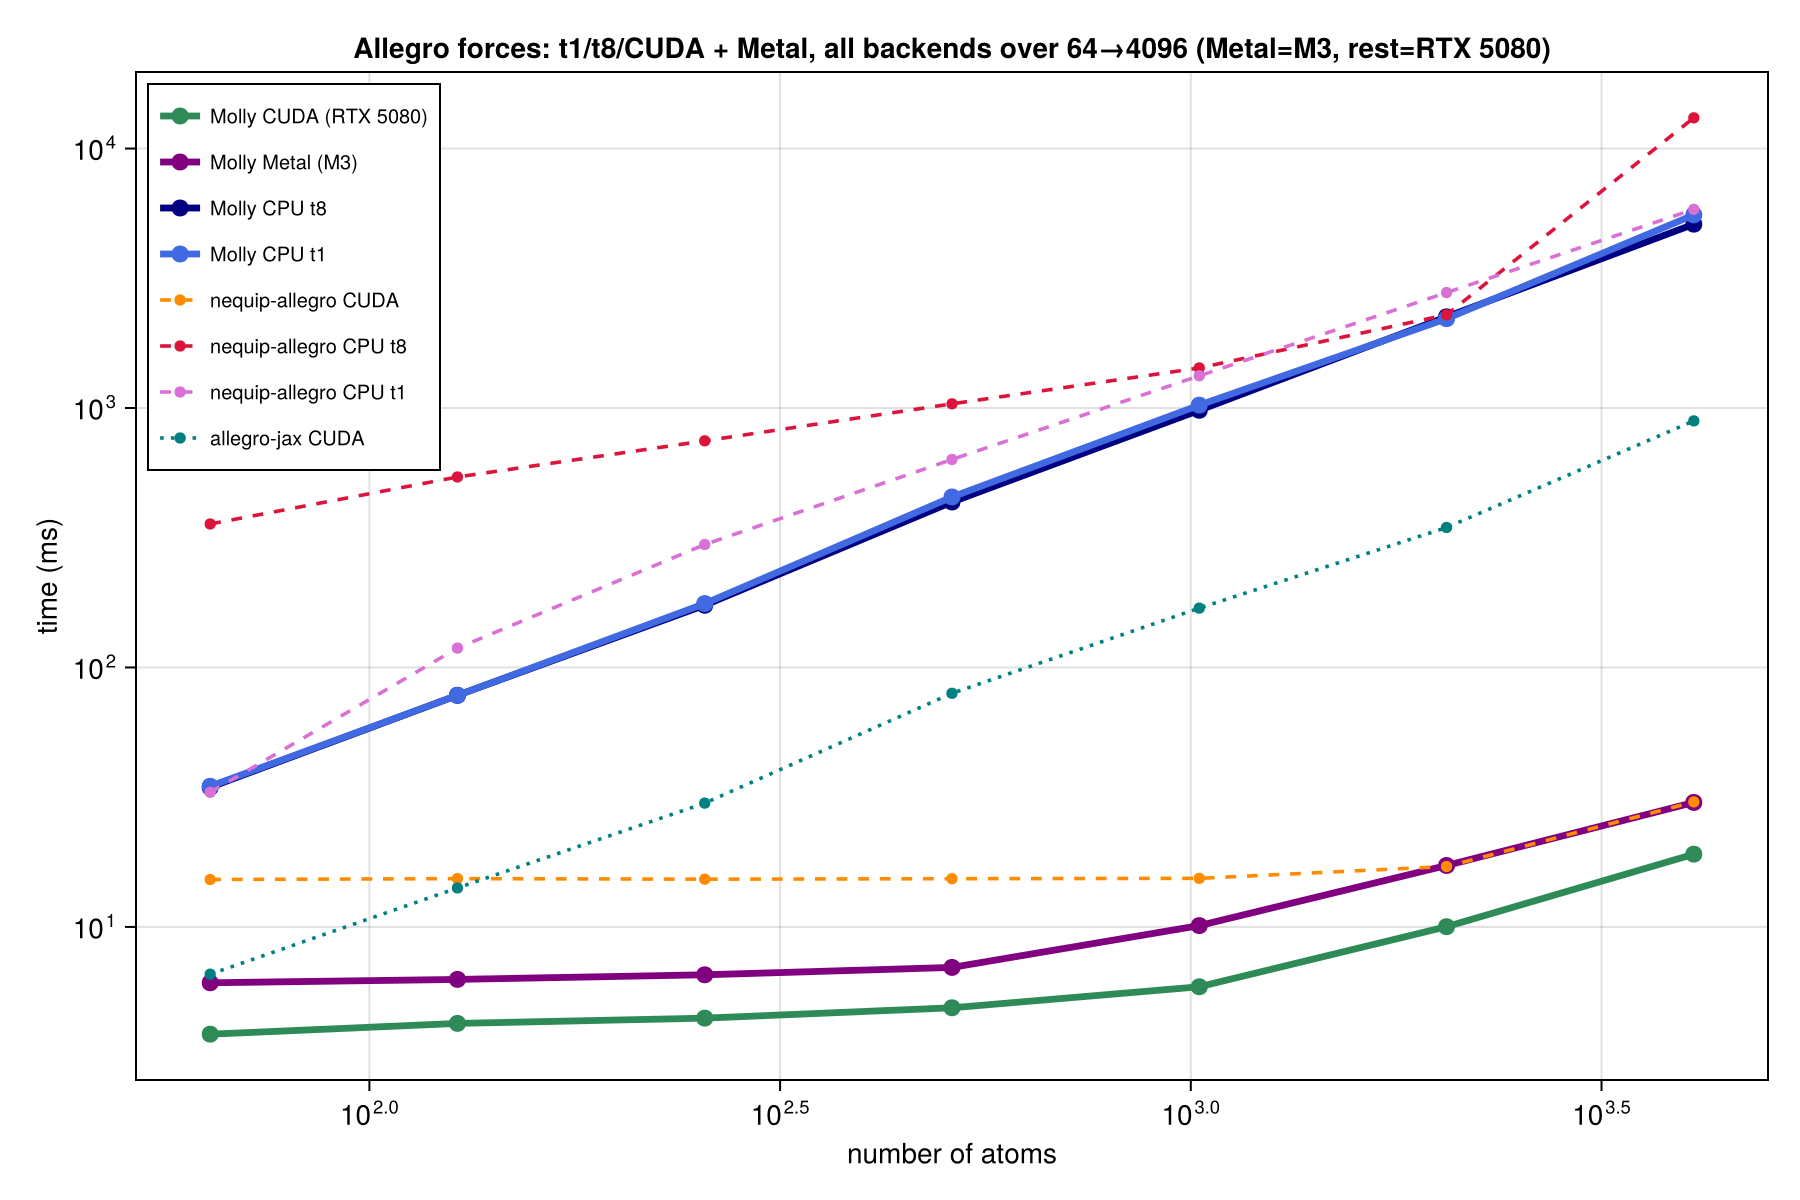
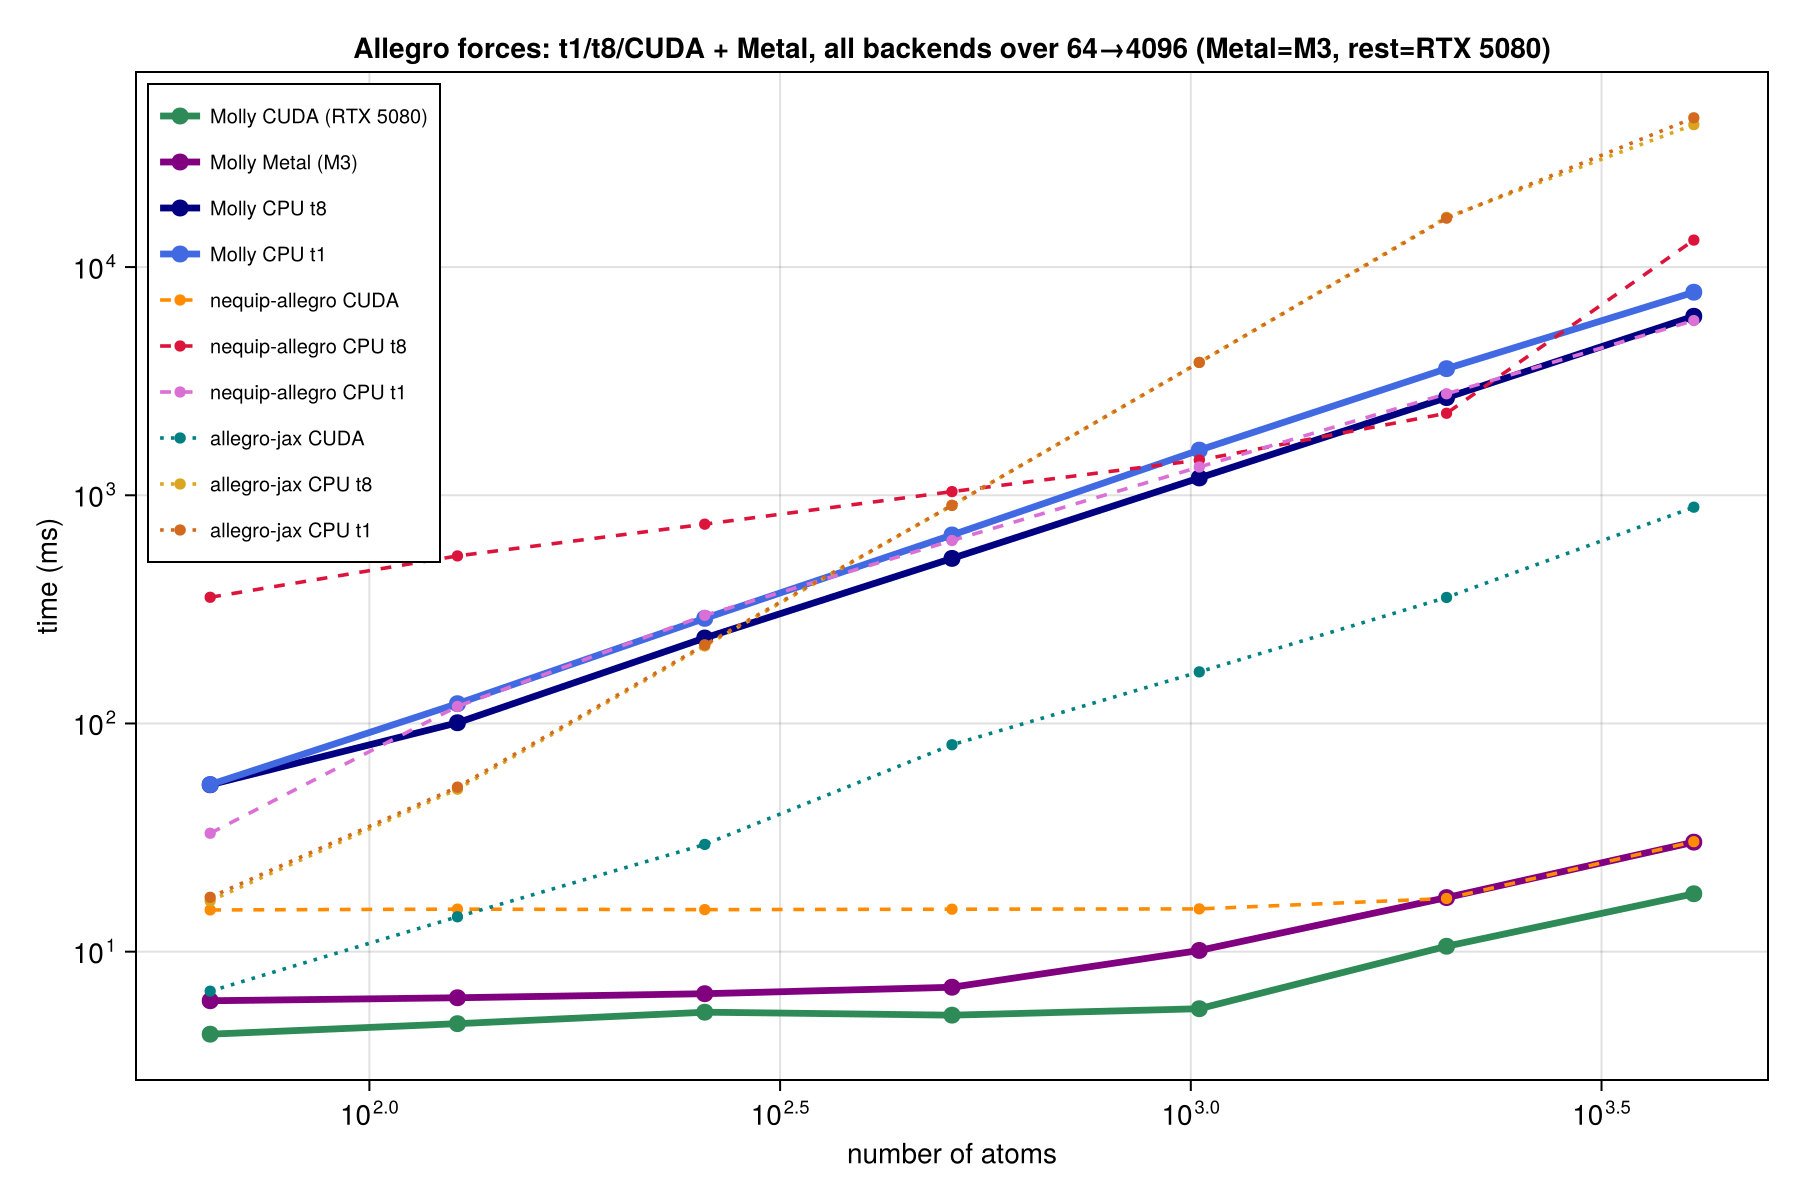
Allegro benchmarks: jax t1/t8 at 7 points on both figures; threaded CPU forces
- allegro-jax CPU energy AND forces now run out to 4096 atoms (adaptive timing in
  allegro_jax_bench.py so the dense O(N^2) tail stays tractable), drawn as separate
  t1 and t8 lines on both the energy and forces figures. They coincide because
  allegro-jax's XLA CPU path is thread-insensitive (t1 == t8 to <1% at every size).
- Forces figure now mirrors the energy one: Molly CUDA/Metal/CPU-t1/t8, nequip
  CUDA/CPU-t1/t8, allegro-jax CUDA/CPU-t1/t8 — every line over the full 7 sizes.
- Molly CPU forces are a fair back-to-back t1/t8 pair: the threaded backward puts t8
  ~1.3x below t1 on the 12-core box (allocation-bound, so modest). Report tables and
  prose updated; jax CPU columns added.

diff --git a/benchmark/allegro_jax_bench.py b/benchmark/allegro_jax_bench.py
@@ -93,15 +93,22 @@ def edge_index(pos):
     return i, j
 
 
-def timeit(f, reps=5, samples=8):
+def timeit(f, max_reps=40, min_reps=3, budget=4.0):
+    """Best single-call time in ms. Adaptive: keep timing individual calls until either `max_reps`
+    are done or (`min_reps` are done and the total exceeds `budget` seconds). Cheap ops (a few ms
+    here, well above timer noise) get many samples; the dense O(N²) large-N cases, where one call
+    already dominates, stop after `min_reps`. Always the minimum, so a truncated run is a valid,
+    slightly conservative timing measured identically across every size and device."""
     f().block_until_ready()
     best = np.inf
-    for _ in range(reps):
+    t_start = time.perf_counter()
+    for r in range(max_reps):
         t0 = time.perf_counter()
-        for _ in range(samples):
-            out = f()
+        out = f()
         out.block_until_ready()
-        best = min(best, (time.perf_counter() - t0) / samples)
+        best = min(best, time.perf_counter() - t0)
+        if r + 1 >= min_reps and time.perf_counter() - t_start > budget:
+            break
     return best * 1e3  # ms
 
 

diff --git a/benchmark/allegro_benchmarks.md b/benchmark/allegro_benchmarks.md
@@ -146,17 +146,18 @@ host** while Metal is the **Apple M3** (cross-machine). Reproduce with `benchmar
 `benchmark/allegro.jl` (Molly), on the same machine.
 
 **Energy, time in ms.** CPU (t1/t8) and CUDA are the RTX 5080 host; Molly Metal is the Apple M3.
-Every backend is shown over the full range it can reach: Metal is Molly-only (see below), and
-`allegro-jax`'s dense O(N²) CPU path becomes impractical past ~512 atoms.
+Metal is Molly-only (see below). `allegro-jax`'s CPU column is one value because it is
+thread-insensitive (t1 ≈ t8); being dense O(N²) it reaches 4096 atoms only via adaptive timing and is
+impractical there (~42 s). The figures draw its t1 and t8 as separate lines, which coincide.
 
 | atoms | Molly CUDA | Molly Metal | Molly t8 | Molly t1 | nequip CUDA | nequip t8 | nequip t1 | jax CUDA | jax CPU |
 | :---: | :---: | :---: | :---: | :---: | :---: | :---: | :---: | :---: | :---: |
-| 64   | 1.33 | 1.86  | 3.4   | 11.4   | 5.65  | 162  | 13.5   | 6.7   | 13.8  |
-| 256  | 1.47 | 2.08  | 16.9  | 55.7   | 5.59  | 310  | 114.1  | 30.2  | 228.2 |
-| 512  | 1.64 | 2.76  | 35.7  | 123.0  | 5.68  | 400  | 242.8  | 80.4  | 972.2 |
-| 1024 | 2.13 | 3.77  | 106.3 | 308.3  | 5.70  | 573  | 585.9  | 167.5 | —     |
-| 2048 | 3.62 | 6.60  | 206.1 | 653.8  | 7.85  | 747  | 1203.7 | 344.8 | —     |
-| 4096 | 7.32 | 12.83 | 457.0 | 1511.2 | 13.42 | 1899 | 2600.5 | 877.0 | —     |
+| 64   | 1.33 | 1.86  | 3.4   | 11.4   | 5.65  | 162  | 13.5   | 6.7   | 13     |
+| 256  | 1.47 | 2.08  | 16.9  | 55.7   | 5.59  | 310  | 114.1  | 30.2  | 195    |
+| 512  | 1.64 | 2.76  | 35.7  | 123.0  | 5.68  | 400  | 242.8  | 80.4  | 859    |
+| 1024 | 2.13 | 3.77  | 106.3 | 308.3  | 5.70  | 573  | 585.9  | 167.5 | 3779   |
+| 2048 | 3.62 | 6.60  | 206.1 | 653.8  | 7.85  | 747  | 1203.7 | 344.8 | 16302  |
+| 4096 | 7.32 | 12.83 | 457.0 | 1511.2 | 13.42 | 1899 | 2600.5 | 877.0 | 42455  |
 
 (`torch.compile` brings nequip CUDA to ~2.5–5 ms — still slower than Molly; omitted for clarity.
 `allegro-jax` uses dense all-pairs, so it scales O(N²) and is far slower at scale.)
@@ -164,17 +165,19 @@ Every backend is shown over the full range it can reach: Metal is Molly-only (se
 ![Allegro energy: all implementations](images/allegro_benchmark_energy.png)
 
 **Forces, time in ms** (Molly analytic vs nequip/jax autograd). CPU (t1/t8) and CUDA are the RTX 5080
-host; Molly Metal is the Apple M3. Every line spans all seven sizes; `allegro-jax`'s dense CPU forces
-cannot, so only its CUDA column appears.
+host; Molly Metal is the Apple M3. Every line spans all seven sizes (the dense `allegro-jax` CPU run
+is timed adaptively so it reaches 4096; its t1 ≈ t8, one column). Molly's CPU t1/t8 here are a fair
+back-to-back pair; the box is shared, so read the CPU absolutes as ±~30% but the t8/t1 and
+cross-implementation *ratios* as robust.
 
-| atoms | Molly CUDA | Molly Metal | Molly t8 | Molly t1 | nequip CUDA | nequip t8 | nequip t1 | jax CUDA |
-| :---: | :---: | :---: | :---: | :---: | :---: | :---: | :---: | :---: |
-| 64   | 3.9  | 6.1  | 34.5   | 34.9   | 15.2 | 357   | 33.0   | 6.6   |
-| 256  | 4.5  | 6.5  | 173.7  | 176.3  | 15.3 | 747   | 297.7  | 30.0  |
-| 512  | 4.9  | 7.0  | 434.3  | 454.1  | 15.3 | 1038  | 633.3  | 79.5  |
-| 1024 | 5.9  | 10.1 | 980.0  | 1025.5 | 15.4 | 1426  | 1330.7 | 169.3 |
-| 2048 | 10.0 | 17.3 | 2246.0 | 2209.5 | 17.1 | 2287  | 2785.1 | 346.3 |
-| 4096 | 19.1 | 30.2 | 5110.3 | 5548.7 | 30.3 | 13131 | 5828.9 | 891.9 |
+| atoms | Molly CUDA | Molly Metal | Molly t8 | Molly t1 | nequip CUDA | nequip t8 | nequip t1 | jax CUDA | jax CPU |
+| :---: | :---: | :---: | :---: | :---: | :---: | :---: | :---: | :---: | :---: |
+| 64   | 4.3  | 6.1  | 53.9   | 54.0   | 15.2 | 357   | 33.0   | 6.6   | 17     |
+| 256  | 5.4  | 6.5  | 236.9  | 288.7  | 15.3 | 747   | 297.7  | 30.0  | 219    |
+| 512  | 5.3  | 7.0  | 528.9  | 669.9  | 15.3 | 1038  | 633.3  | 79.5  | 903    |
+| 1024 | 5.6  | 10.1 | 1191.1 | 1577.4 | 15.4 | 1426  | 1330.7 | 169.3 | 3822   |
+| 2048 | 10.6 | 17.3 | 2679.6 | 3588.2 | 17.1 | 2287  | 2785.1 | 346.3 | 16514  |
+| 4096 | 17.9 | 30.2 | 6087.9 | 7760.0 | 30.3 | 13131 | 5828.9 | 891.9 | 42094  |
 
 Molly CUDA forces match the CPU analytic forces to machine precision (max |ΔF| ≈ 2e-14, Float64);
 Metal forces to ≈ 1e-5 (Float32). The CUDA backward is the fastest forces path here at every size.
@@ -199,13 +202,15 @@ Reading it:
 - **Forces now run on the GPU too — and win.** Molly's analytic backward is implemented as a native
   GPU-portable reverse pass (`compute_allegro_forces_ka`, KernelAbstractions), so forces run on CUDA
   and Metal, not just CPU. On CUDA the backward reproduces the CPU analytic forces to **machine
-  precision** (max |ΔF| ≈ 2e-14, Float64) and is **flat ~4–18 ms from 64 to 4096 atoms — up to ~220×
-  over Molly CPU-t8** and faster than nequip's CUDA autograd forces (~15 ms flat) at every size shown.
-  Metal forces (Float32, max |ΔF| ≈ 1e-5) run **6–30 ms**, ~25× over CPU-t8. On CPU the analytic
-  backward is single-threaded (t1 ≈ t8), so it trails nequip CPU-t8 at large N — threading the CPU
-  backward is the remaining CPU-side follow-up, but the GPU path is the one that matters for
-  production. (`allegro-jax`'s CPU forces are dense and thread-insensitive, so they cannot reach 4096
-  atoms and are omitted from the forces figure, which holds every line to the same seven sizes.)
+  precision** (max |ΔF| ≈ 2e-14, Float64) and is **flat ~4–18 ms from 64 to 4096 atoms — ~300× over
+  Molly CPU-t8** and faster than nequip's CUDA autograd forces (~15 ms flat) at every size shown.
+  Metal forces (Float32, max |ΔF| ≈ 1e-5) run **6–30 ms**, ~25× over CPU-t8. The CPU analytic
+  backward is threaded (tape build + both backward passes run per centre atom; only the final
+  Cartesian scatter is serial), so CPU-t8 sits below t1 — but the gain is modest (~1.2× on the
+  12-core broadwell box, ~1.8× on the M3) because the reverse pass is allocation-heavy and so becomes
+  memory-bandwidth-bound at higher core counts; the GPU path is the real forces speedup. `allegro-jax`
+  CPU forces are XLA-fused and fully thread-insensitive, so its t1 and t8 forces lines coincide (the
+  dense O(N²) run is timed adaptively so it still reaches 4096 atoms).
 
 ---
 
@@ -235,8 +240,9 @@ Reading it:
   as KernelAbstractions kernels over a device-built neighbour list, with no inter-kernel
   synchronisation. The forces reverse pass keeps all edge-local adjoints in global scratch (no
   dynamically sized per-thread buffers), gathers the environment adjoint per atom (no atomics), and
-  uses atomics only for the final Cartesian force scatter. Remaining follow-up: threading the CPU
-  backward and a cell-list neighbour build.
+  uses atomics only for the final Cartesian force scatter. The CPU backward is also threaded (per
+  centre atom). Remaining follow-up: a cell-list neighbour build (the current all-pairs build is the
+  super-linear part of the scaling).
 - A head-to-head against the reference `nequip-allegro` (PyTorch) package — analogous to the
   ANI-vs-TorchANI comparison — is future work: it needs a trained checkpoint (or a matched-config
   build) shared between the two implementations for a fair comparison.
